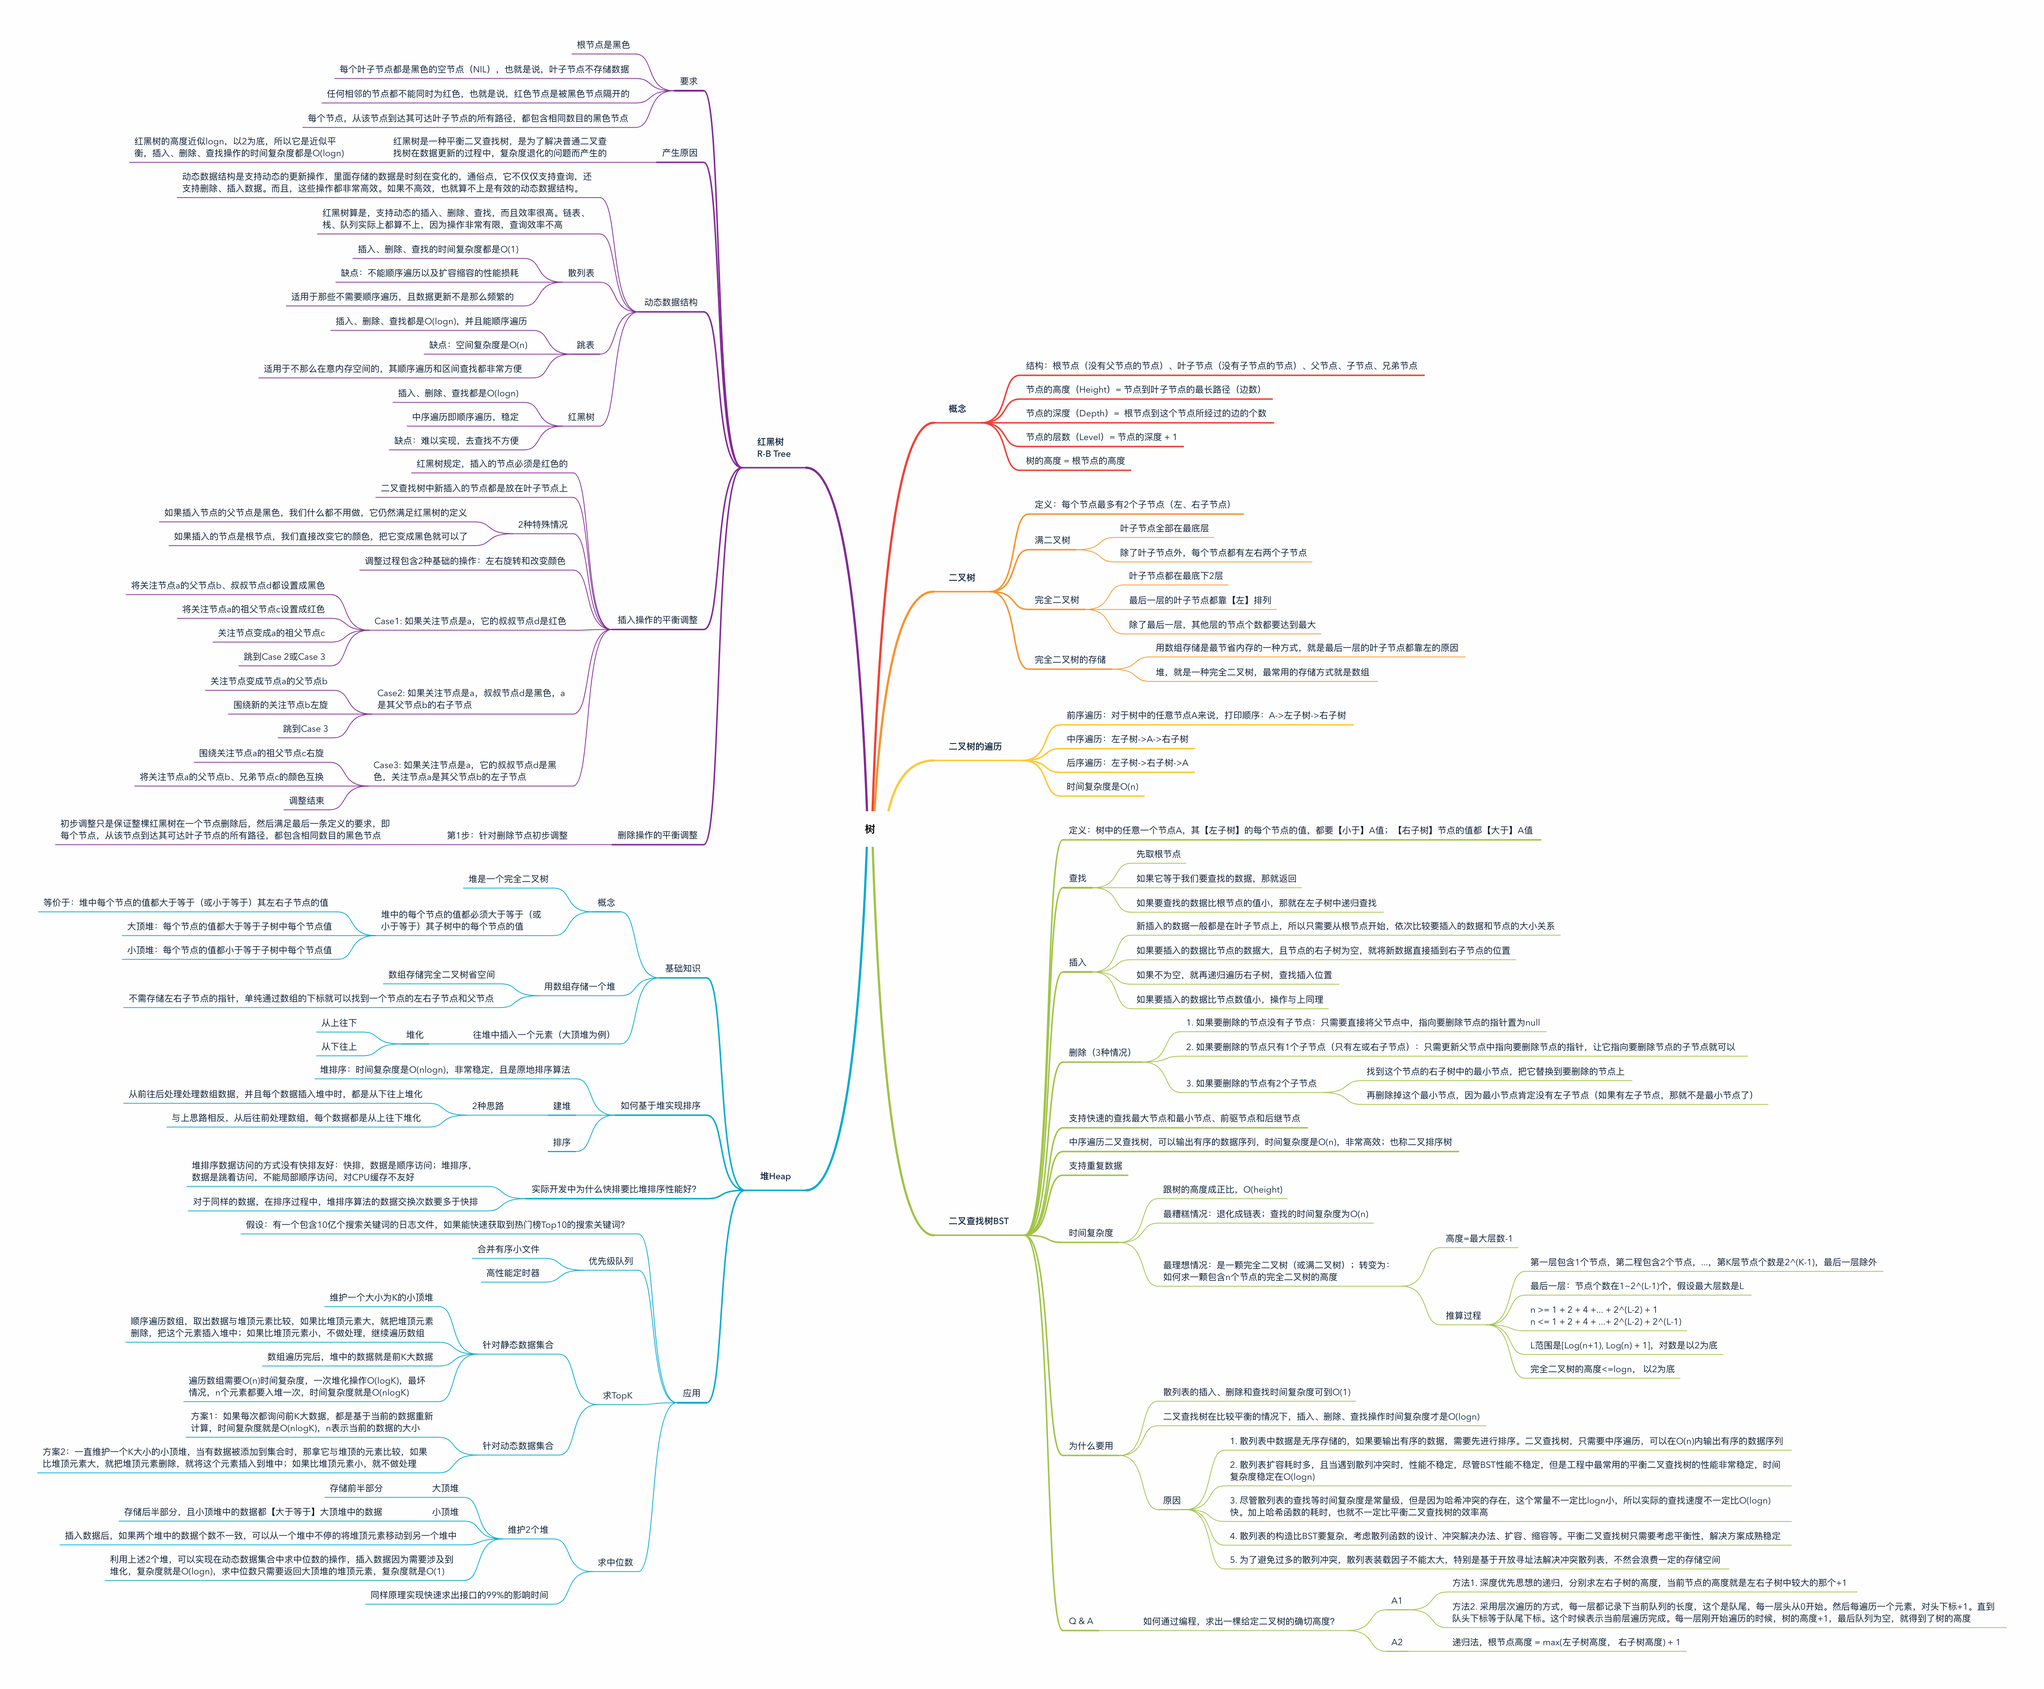
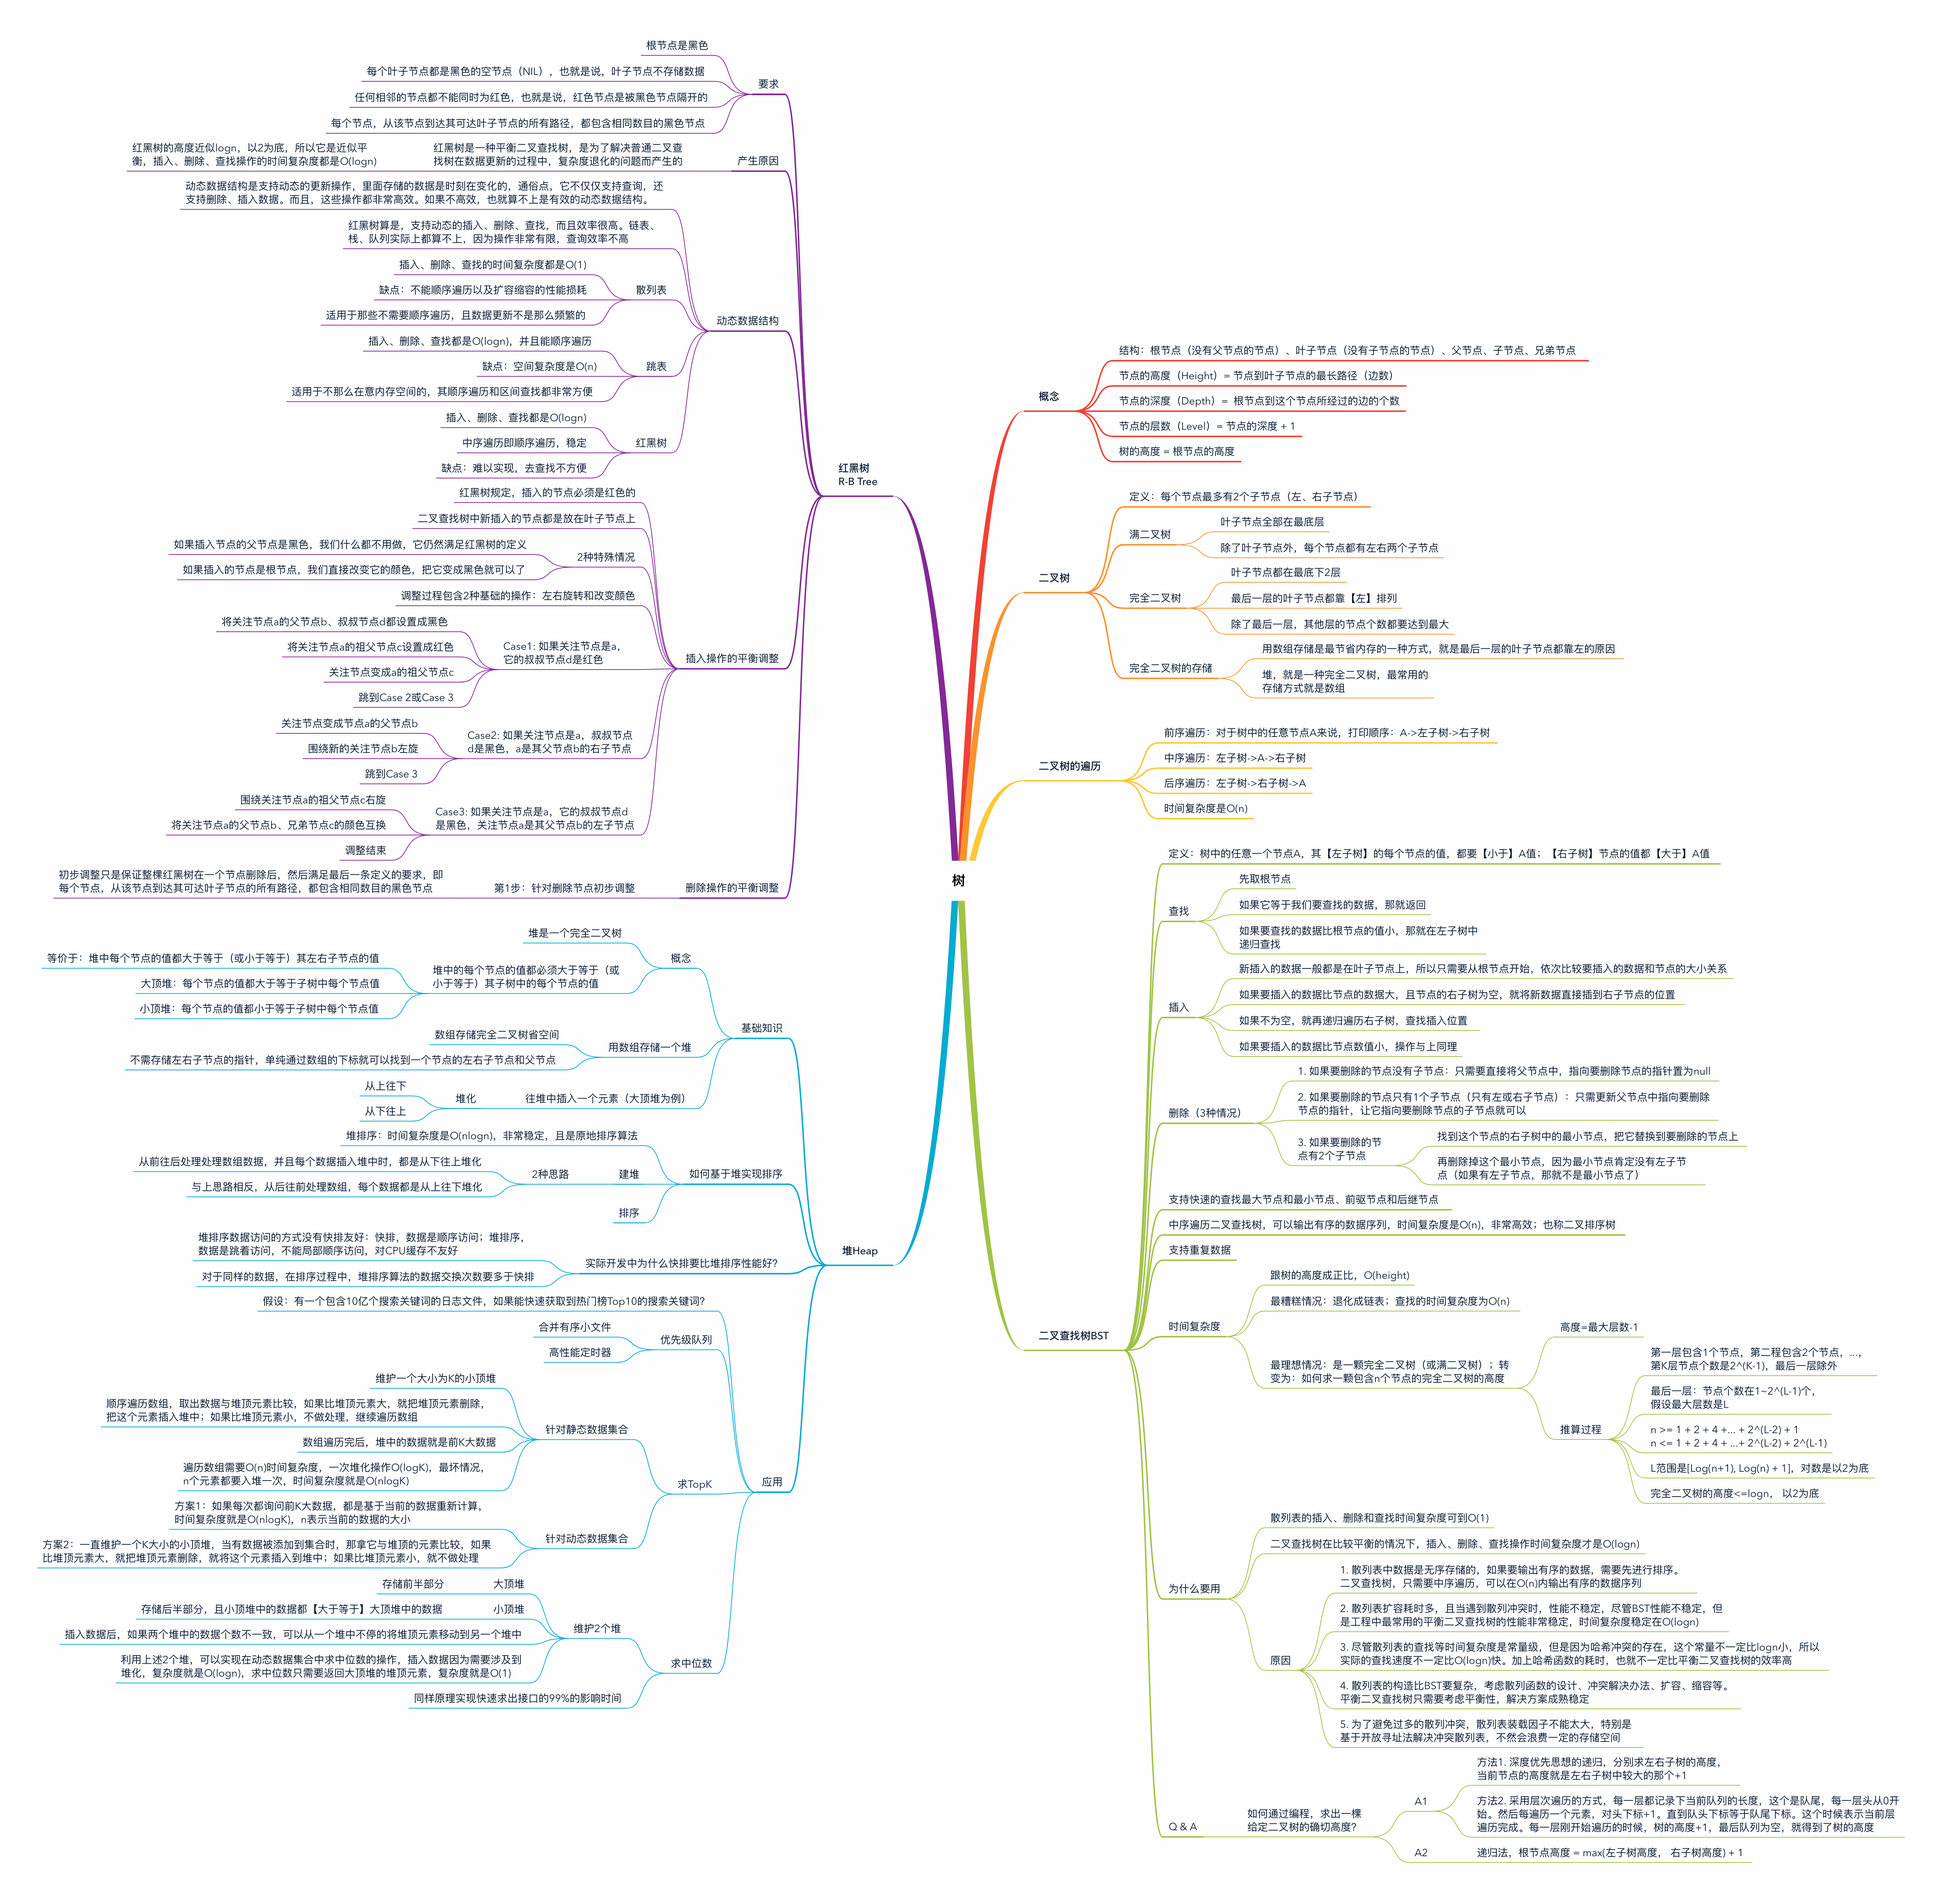
:sparkles: 二叉树，二叉查找树，红黑树，堆heap

Changed region(s): [[0.0311, 0.0312, 0.4671, 0.967], [0.436, 0.1872, 0.9654, 0.9982], [0.2803, 0.8111, 0.3114, 0.8423]]

diff --git a/README.md b/README.md
@@ -19,7 +19,13 @@
 
 - [树](/Notes/二叉树.md)
 
-  - 二叉树、二叉树的遍历、二叉查找树 BST、红黑树 R-B Tree、堆 Heap
+  - 二叉树与二叉树遍历
+
+  - [二叉查找树 BST](/Notes/二叉查找树BST.md)
+
+  - [红黑树 R-B Tree](/Notes/红黑树R-B-Tree.md)
+
+  - [堆 Heap](/Notes/堆Heap.md)
 
 * [图](/Notes/图.md)
 

diff --git a/Notes/字符串匹配.md b/Notes/字符串匹配.md
@@ -2,6 +2,8 @@
 
 ## <img src="../Assets/icons/代码.png" width="28px" height="28px"> 代码段
 
+[算法 4：字符串查找算法](/CodeSegment/StringSearch.java)
+
 ## <img src="../Assets/icons/思维导图.png" width="28px" height="28px"> 思维导图
 
 ![](/MindMap/字符串匹配.png)

diff --git a/Notes/二叉查找树BST.md b/Notes/二叉查找树BST.md
@@ -1,0 +1,3 @@
+# 二叉查找树 BST
+
+![](/MindMap/二叉查找树BST.png)

diff --git a/Notes/红黑树R-B-Tree.md b/Notes/红黑树R-B-Tree.md
@@ -1,0 +1,3 @@
+# 红黑树 R-B Tree
+
+![](/MindMap/红黑树R-B-Tree.png)

diff --git a/Notes/堆Heap.md b/Notes/堆Heap.md
@@ -1,0 +1,3 @@
+# 堆 Heap
+
+![](/MindMap/堆Heap.png)
